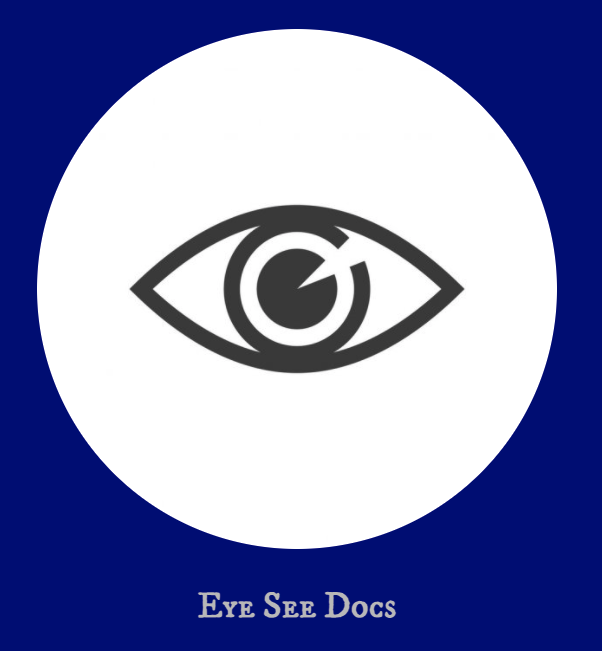
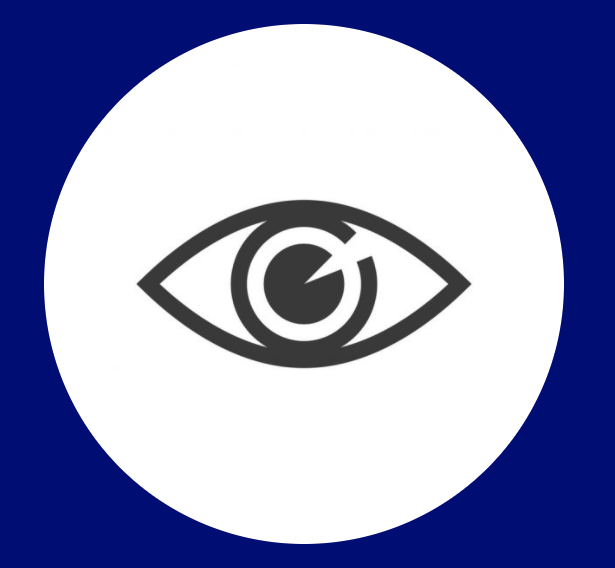
working hover effect for projects

diff --git a/src/Components/Project/Project.jsx b/src/Components/Project/Project.jsx
@@ -16,8 +16,12 @@ const Project = () => {
       <div className="card">
         <div className="card-content">
           <div className="card-img-container">
-            <a target="_blank" rel="noopener noreferrer" href="https://foodie-baby.herokuapp.com/"><img src={ FoodieBaby } alt="foodie baby" className="card-img"></img></a>
-            <h2 className="card-description">Foodie Baby</h2>
+            <a target="_blank" rel="noopener noreferrer" href="https://foodie-baby.herokuapp.com/"><img src={ FoodieBaby } alt="foodie baby" className="card-img"></img>
+            <div className="card-description">
+              <h1>Foodie Baby</h1>
+              <p>Help parents decide. Built using MEN stack.</p>
+            </div>
+            </a>
           </div>
         </div>
       </div>
@@ -25,8 +29,12 @@ const Project = () => {
       <div className="card">
         <div className="card-content">
           <div className="card-img-container">
-            <a target="_blank" rel="noopener noreferrer" href="https://eyeseedocs.herokuapp.com/"><img src={ EyeDocs } alt="eye see docs" className="card-img"></img></a>
-            <h2 className="card-description">Eye See Docs</h2>
+            <a target="_blank" rel="noopener noreferrer" href="https://eyeseedocs.herokuapp.com/"><img src={ EyeDocs } alt="eye see docs" className="card-img"></img>
+            <div className="card-description">
+              <h1>Eye See Docs</h1>
+              <p>Documentation place for eye docs. Built using Python and Django.</p>
+            </div>
+            </a>
           </div>
         </div>
       </div>
@@ -34,8 +42,12 @@ const Project = () => {
       <div className="card">
         <div className="card-content">
           <div className="card-img-container">
-            <a target="_blank" rel="noopener noreferrer" href="https://the-number-slots.netlify.app/"><img src={ Slot } alt="slot machine" className="card-img"></img></a>
-            <h2 className="card-description">The Numbers Slot</h2>
+            <a target="_blank" rel="noopener noreferrer" href="https://the-number-slots.netlify.app/"><img src={ Slot } alt="slot machine" className="card-img"></img>
+            <div className="card-description">
+              <h1>The Numbers Slot</h1>
+              <p>Classic Vegas-style game built using Javascript, HTML, CSS.</p>
+            </div>
+            </a>
           </div>
         </div>
       </div>
@@ -43,8 +55,12 @@ const Project = () => {
       <div className="card">
         <div className="card-content">
           <div className="card-img-container">
-            <a target="_blank" rel="noopener noreferrer" href="https://make-your-marvel.herokuapp.com/"><img src={ Marvel } alt="make your marvel" className="card-img"></img></a>
-            <h2 className="card-description">Make Your Marvel</h2>
+            <a target="_blank" rel="noopener noreferrer" href="https://make-your-marvel.herokuapp.com/"><img src={ Marvel } alt="make your marvel" className="card-img"></img>
+            <div className="card-description">
+              <h1>Make Your Marvel</h1>
+              <p>Group endeavor. Built using MERN stack.</p>
+            </div>
+            </a>
           </div>
         </div>
       </div>

diff --git a/src/Components/About/About.jsx b/src/Components/About/About.jsx
@@ -10,7 +10,7 @@ const About = () => {
     <h1>About Me</h1>
     <div className="about-container">
       <div className="about-child">
-        <div><img src={Headshot} alt="Angela" id="headshot"></img></div>
+        <div><img src={Headshot} alt="Angela" id="headshot" width="500px"></img></div>
       </div>
       <div className="about-child">
         <div><h3>A software engineer, doctor, and business owner who is excited to improve how and what people see. Through knowledge and deductive-reasoning skills, arrive at diagnoses and sources of errors to execute treatments and fixes. Bringing a passion for learning and making a difference to each and every project. Approaching every problem with an open mind and willingness to embrace different opinions and methods all thanks to those from different walks of life (ie: patients, customers, staff, all alike). </h3></div>

diff --git a/src/styles/Project.css b/src/styles/Project.css
@@ -48,11 +48,19 @@ img {
   color: black;
   visibility: hidden;
   opacity: 0;
-  font-size: 1.5rem;
-  font-weight: bold;
   text-align: center;
   padding-top: 100px;
 }
+
+.card-description > h1 {
+  color: red;
+  font-weight: bold;
+}
+
+.card-description > p {
+  color: green;
+}
+
 
 .card > a {
   text-decoration: none;

diff --git a/src/styles/About.css b/src/styles/About.css
@@ -25,4 +25,6 @@ h3 {
 #headshot {
   width: 50%;
   float: right;
+  width: auto;
+  height: auto;
 }
